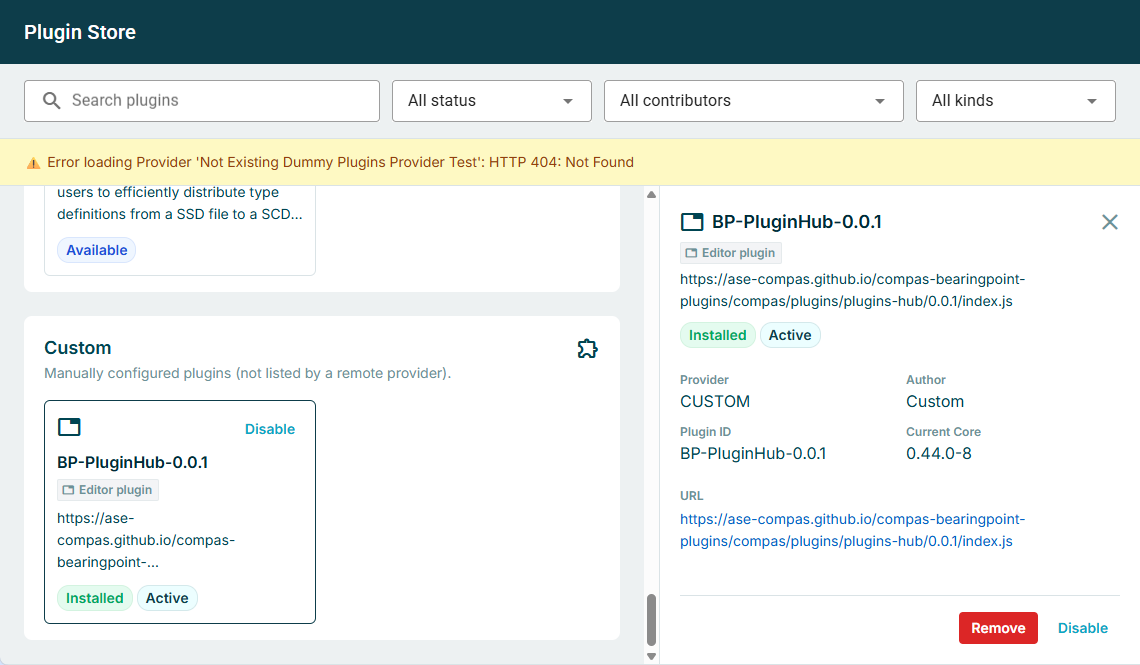
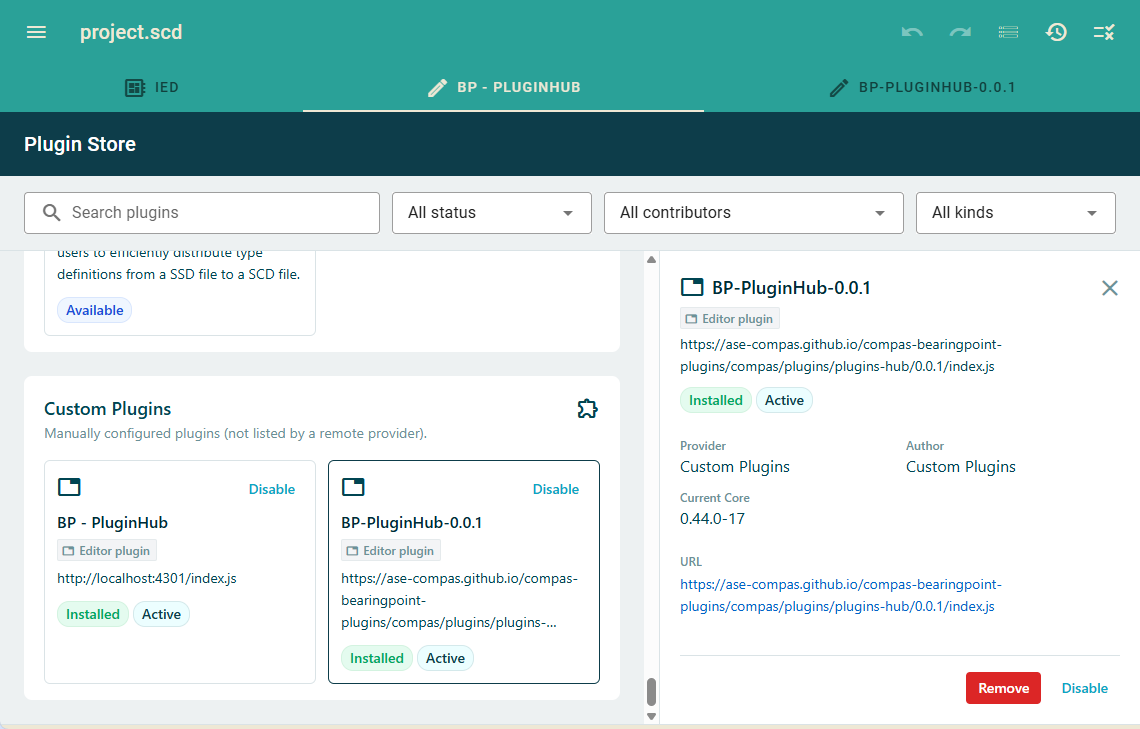
update(plugins-hub): prepare CHANGELOG

diff --git a/apps/plugins-hub/CHANGELOG.md b/apps/plugins-hub/CHANGELOG.md
@@ -17,7 +17,8 @@ and this project adheres to [Semantic Versioning](https://semver.org/spec/v2.0.0
 - Show each reachable catalogue as its own provider; enable/disable only (no install/remove).
 - Provider logos shipped in the hub bundle (`compas.png` / `openscd.png`).
 
-![Built-in plugins](doc/img/0.0.3_Built-In_Plugins.png)
+![Built-in CoMPAS plugins](doc/img/0.0.3_Built-In_CoMPAS_Plugins.png)
+![Built-in Open-SCD plugins](doc/img/0.0.3_Built-In_Open-SCD_Plugins.png)
 
 **Custom provider**
 
